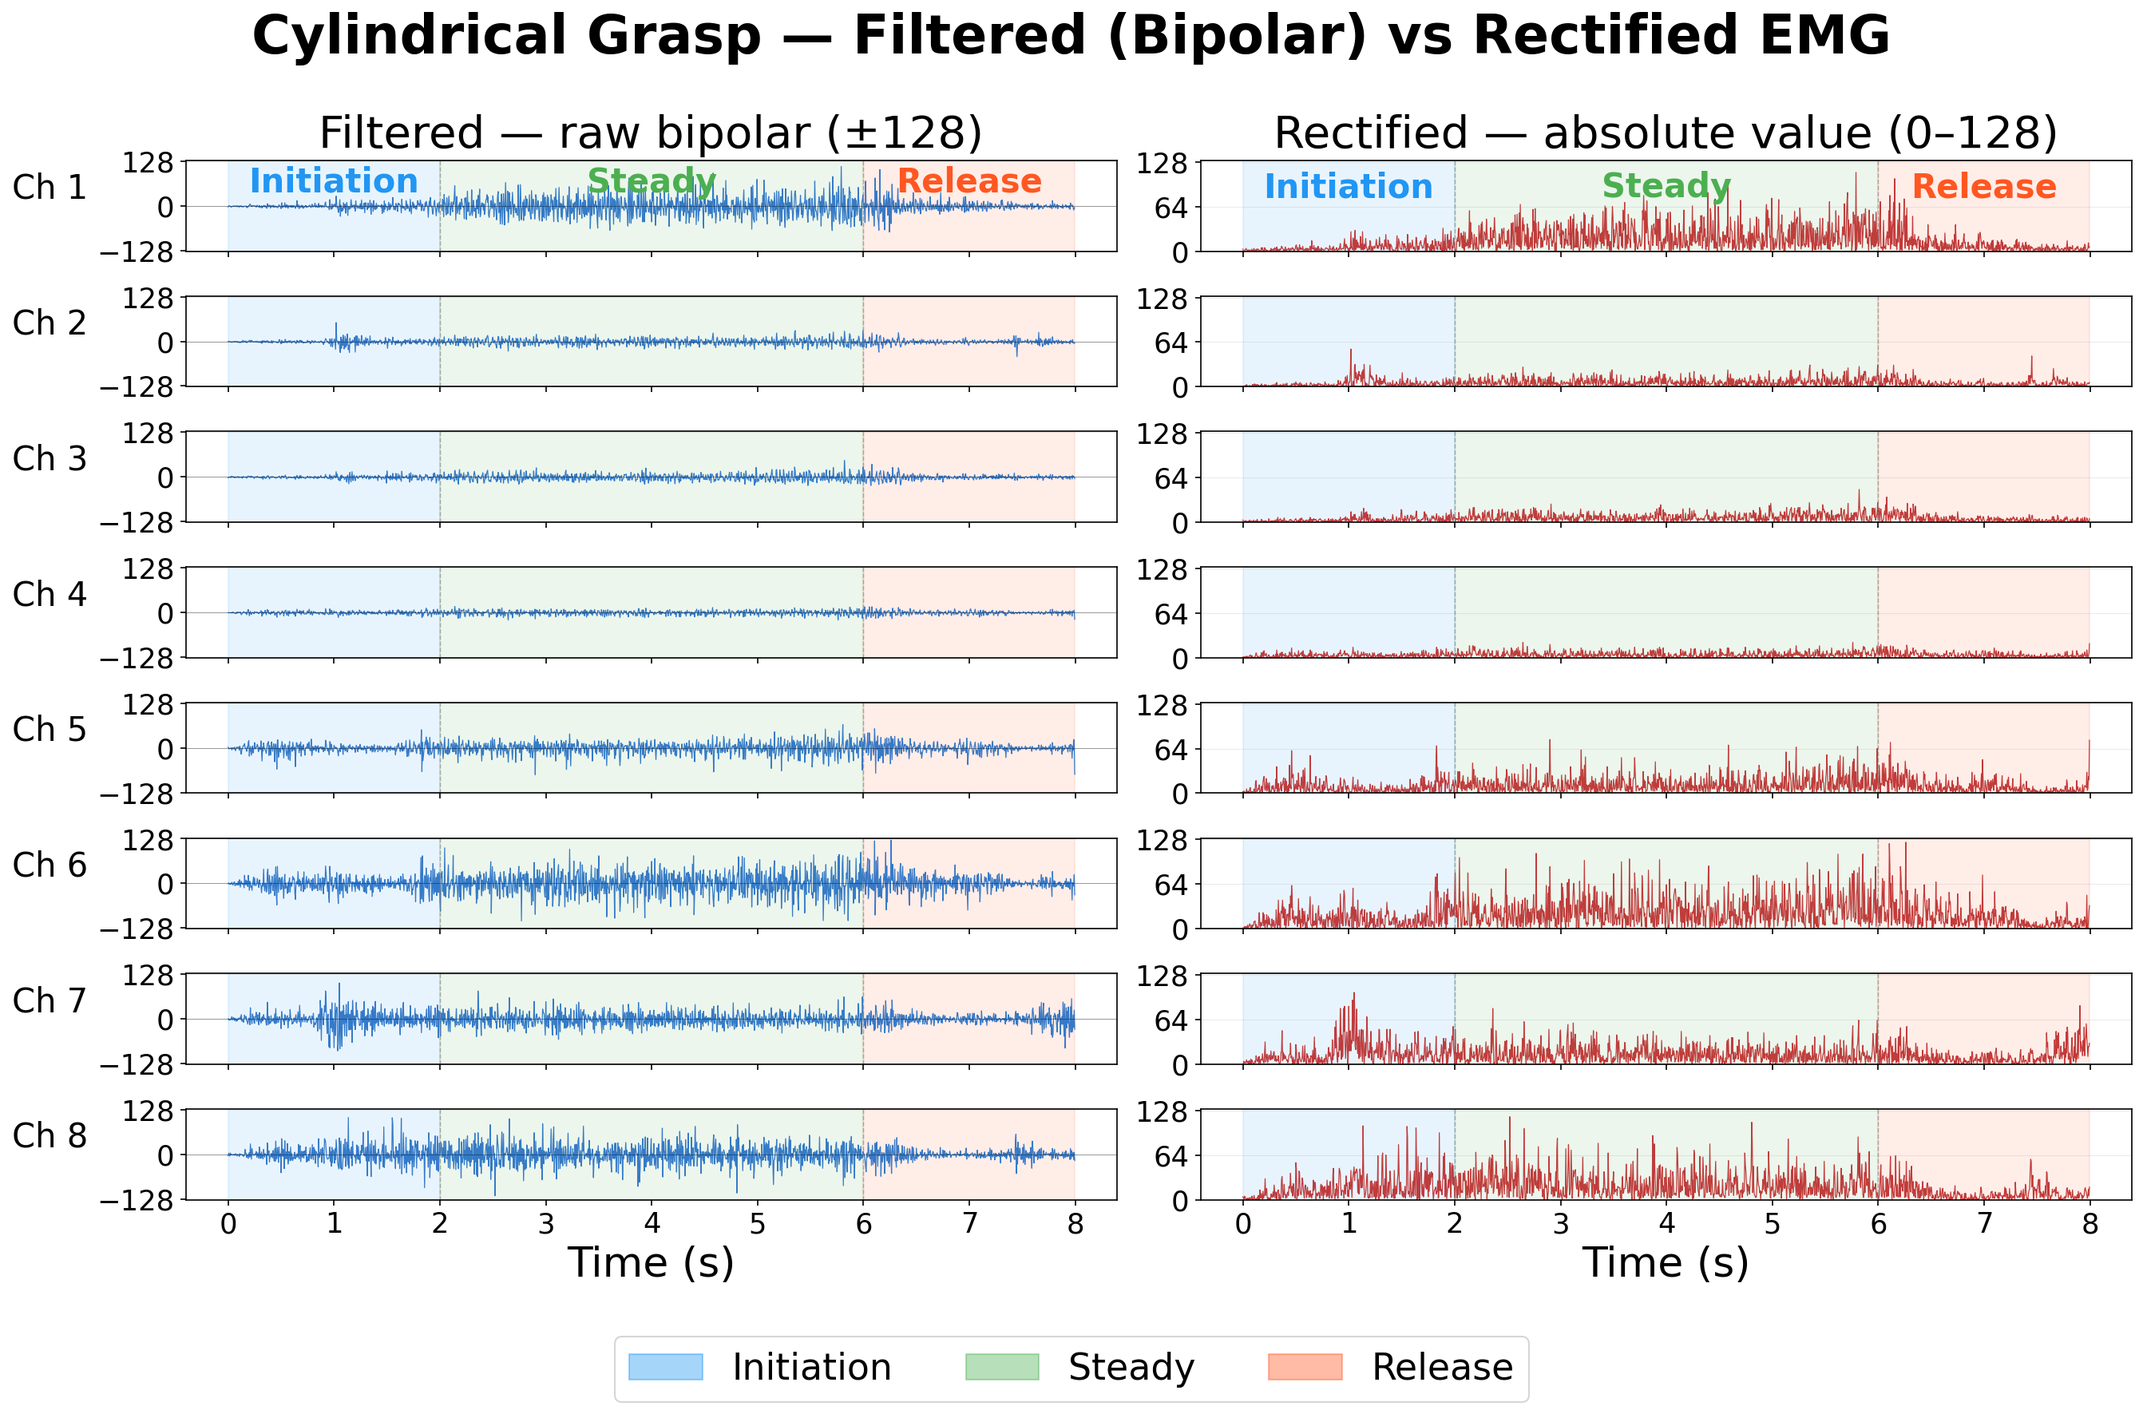
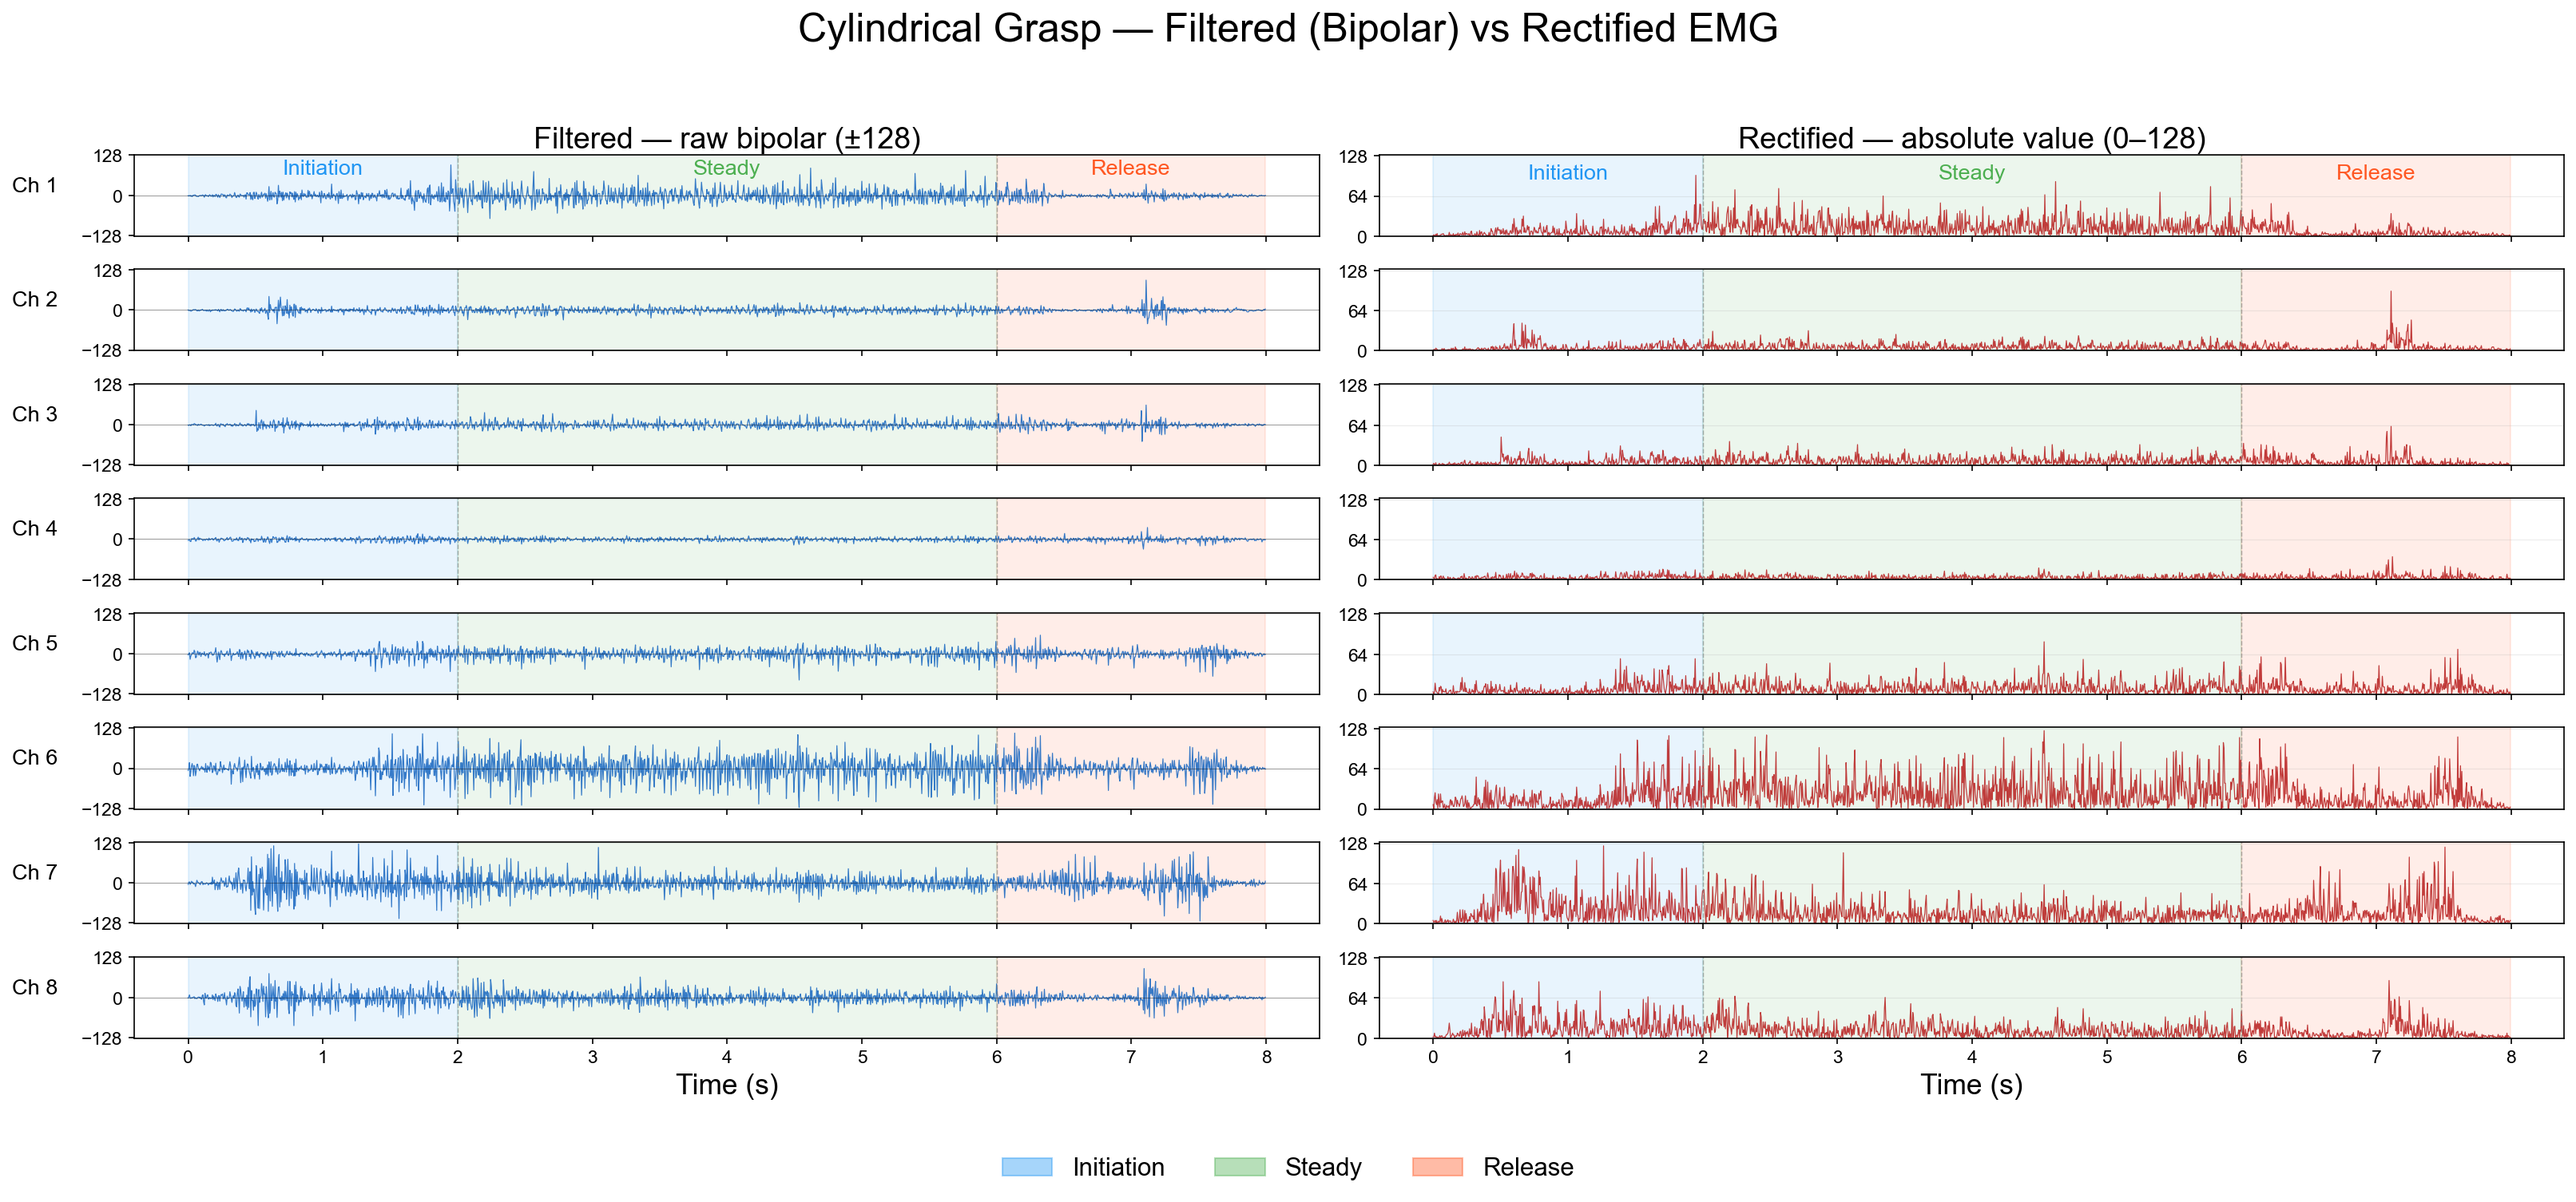
Modify formatting in EMG signal plots

Changed region(s): [[0.0, 0.0, 1.0, 0.905], [0.2783, 0.9363, 0.7113, 0.9987]]

diff --git a/graphs/plot_cylinder_filtered_vs_rectified.py b/graphs/plot_cylinder_filtered_vs_rectified.py
@@ -1,8 +1,6 @@
 '''
-Comparison plot: Filtered (bipolar) vs Rectified EMG
-Since all stored data is already rectified (np.abs applied during collection),
-the bipolar signal is simulated by multiplying the rectified envelope by a
-carrier wave that mimics the frequency content of real filtered EMG (~20-200Hz).
+Rectified EMG plot for cylindrical forward grasp trial.
+Data is stored as rectified (np.abs applied during collection).
 '''
 
 import numpy as np
@@ -13,9 +11,9 @@ from pathlib import Path
 DATA_DIR = Path(__file__).parent.parent / "server" / "data_collection"
 OUT_DIR  = Path(__file__).parent
 
-SAMPLE_RATE    = 200
-INIT_SAMPLES   = 400
-STEADY_SAMPLES = 800
+SAMPLE_RATE     = 200
+INIT_SAMPLES    = 400
+STEADY_SAMPLES  = 800
 RELEASE_SAMPLES = 400
 TRIAL_IDX = 0
 
@@ -24,6 +22,12 @@ STAGE_COLORS = {
     "Steady":     "#4CAF50",
     "Release":    "#FF5722",
 }
+
+plt.rcParams.update({
+    'font.family':     'sans-serif',
+    'font.sans-serif': ['Roboto', 'Arial', 'Helvetica', 'DejaVu Sans'],
+    'font.weight':     'normal',
+})
 
 # Load first trial
 init    = np.load(DATA_DIR / "cylindrical_forward_init.npy")
@@ -37,83 +41,50 @@ trial_release = release[TRIAL_IDX*RELEASE_SAMPLES : (TRIAL_IDX+1)*RELEASE_SAMPLE
 rectified = np.vstack([trial_init, trial_steady, trial_release])  # (1600, 8)
 t = np.arange(len(rectified)) / SAMPLE_RATE
 
-# Simulate bipolar filtered signal: multiply envelope by carrier
-# EMG motor unit firing frequency ~80Hz, modulated by a mix of frequencies
-rng = np.random.default_rng(42)
-carrier_freqs = [40, 80, 120, 160]  # Hz — representative EMG spectral content
-carrier = np.zeros(len(t))
-for f in carrier_freqs:
-    phase = rng.uniform(0, 2*np.pi)
-    carrier += np.sin(2 * np.pi * f * t + phase)
-carrier /= np.abs(carrier).max()  # normalise to ±1
-
-bipolar = rectified * carrier[:, None]  # apply per-sample carrier to all channels
-
-# Stage boundaries
 t_init_end   = INIT_SAMPLES / SAMPLE_RATE
 t_steady_end = (INIT_SAMPLES + STEADY_SAMPLES) / SAMPLE_RATE
 
-def shade_stages(axes):
-    for ax in axes:
-        ax.axvspan(0,           t_init_end,   alpha=0.10, color=STAGE_COLORS["Initiation"])
-        ax.axvspan(t_init_end,  t_steady_end, alpha=0.10, color=STAGE_COLORS["Steady"])
-        ax.axvspan(t_steady_end, t[-1],       alpha=0.10, color=STAGE_COLORS["Release"])
-        ax.axvline(t_init_end,   color='gray', linestyle='--', linewidth=0.7, alpha=0.6)
-        ax.axvline(t_steady_end, color='gray', linestyle='--', linewidth=0.7, alpha=0.6)
-
-# ---------- Plot ----------
-fig, axes = plt.subplots(8, 2, figsize=(18, 12), sharex=True)
-fig.suptitle("Cylindrical Forward Grasp — Filtered vs Rectified EMG (Trial 1)",
-             fontsize=13, fontweight='bold')
-
-axes[0, 0].set_title("Filtered (bipolar, simulated)", fontsize=11, pad=8)
-axes[0, 1].set_title("Rectified (absolute value, stored)", fontsize=11, pad=8)
+fig, axes = plt.subplots(8, 1, figsize=(12, 10), sharex=True)
+fig.subplots_adjust(hspace=0.08)
+fig.suptitle("Cylindrical Forward Grasp — Rectified EMG (Trial 1)",
+             fontsize=24, fontweight='normal', y=0.995)
 
 for ch in range(8):
-    # Bipolar (filtered)
-    ax_f = axes[ch, 0]
-    ax_f.plot(t, bipolar[:, ch], color='#1565C0', linewidth=0.6, alpha=0.85)
-    ax_f.set_ylim(-130, 130)
-    ax_f.set_yticks([-128, 0, 128])
-    ax_f.axhline(0, color='black', linewidth=0.4, alpha=0.4)
-    ax_f.set_ylabel(f"Ch {ch+1}", fontsize=8, rotation=0, labelpad=28)
+    ax = axes[ch]
+    ax.plot(t, rectified[:, ch], color='#B71C1C', linewidth=0.6, alpha=0.85)
+    ax.set_ylim(0, 130)
+    ax.set_yticks([0, 64, 128])
+    ax.axvspan(0,            t_init_end,   alpha=0.10, color=STAGE_COLORS["Initiation"])
+    ax.axvspan(t_init_end,   t_steady_end, alpha=0.10, color=STAGE_COLORS["Steady"])
+    ax.axvspan(t_steady_end, t[-1],        alpha=0.10, color=STAGE_COLORS["Release"])
+    ax.axvline(t_init_end,   color='gray', linestyle='--', linewidth=0.7, alpha=0.6)
+    ax.axvline(t_steady_end, color='gray', linestyle='--', linewidth=0.7, alpha=0.6)
+    ax.tick_params(labelsize=11)
+    ax.grid(True, axis='y', alpha=0.25, linewidth=0.5)
+    ax.set_ylabel(f"Ch {ch+1}", fontsize=13, rotation=0, labelpad=28)
 
-    # Rectified
-    ax_r = axes[ch, 1]
-    ax_r.plot(t, rectified[:, ch], color='#B71C1C', linewidth=0.6, alpha=0.85)
-    ax_r.set_ylim(0, 130)
-    ax_r.set_yticks([0, 64, 128])
+# Stage labels on top row
+for label, x0, x1 in [
+    ("Initiation", 0,            t_init_end),
+    ("Steady",     t_init_end,   t_steady_end),
+    ("Release",    t_steady_end, t[-1]),
+]:
+    axes[0].text(
+        (x0 + x1) / 2, 115, label,
+        ha='center', va='top', fontsize=13, fontweight='normal',
+        color=STAGE_COLORS[label]
+    )
 
-    for ax in [ax_f, ax_r]:
-        shade_stages([ax])
-        ax.tick_params(labelsize=7)
-        ax.grid(True, axis='y', alpha=0.25, linewidth=0.5)
+axes[-1].set_xlabel("Time (s)", fontsize=17)
 
-# Stage labels on row 0
-for col, label_y, ylim in [(0, 110, 130), (1, 110, 130)]:
-    for label, x0, x1 in [
-        ("Initiation", 0, t_init_end),
-        ("Steady",     t_init_end, t_steady_end),
-        ("Release",    t_steady_end, t[-1]),
-    ]:
-        axes[0, col].text(
-            (x0 + x1) / 2, label_y, label,
-            ha='center', va='top', fontsize=8, fontweight='bold',
-            color=STAGE_COLORS[label]
-        )
-
-for col in range(2):
-    axes[-1, col].set_xlabel("Time (s)", fontsize=10)
-
-# Legend
 patches = [mpatches.Patch(color=c, alpha=0.4, label=l)
            for l, c in STAGE_COLORS.items()]
-fig.legend(handles=patches, loc='lower center', ncol=3, fontsize=9,
-           bbox_to_anchor=(0.5, 0.01))
+fig.legend(handles=patches, loc='lower center', ncol=3, fontsize=15,
+           bbox_to_anchor=(0.5, 0.0), frameon=False)
 
-plt.tight_layout(rect=[0, 0.04, 1, 0.97])
+plt.tight_layout(rect=[0, 0.05, 1, 0.96])
 
-out_path = OUT_DIR / "cylindrical_forward_filtered_vs_rectified.png"
+out_path = OUT_DIR / "cylindrical_forward_rectified.png"
 plt.savefig(out_path, dpi=150, bbox_inches='tight')
 print(f"Saved to {out_path}")
 plt.show()

diff --git a/graphs/collect_and_plot_cylinder.py b/graphs/collect_and_plot_cylinder.py
@@ -105,16 +105,25 @@ def _countdown(seconds):
 # ── Plotting ──────────────────────────────────────────────────────────────────
 
 def _plot(raw, rect):
+    plt.rcParams.update({
+        'font.family':     'sans-serif',
+        'font.sans-serif': ['Roboto', 'Arial', 'Helvetica', 'DejaVu Sans'],
+        'font.weight':     'normal',
+    })
+
     t_init_end   = INIT_SAMPLES    / SAMPLE_RATE
     t_steady_end = (INIT_SAMPLES + STEADY_SAMPLES) / SAMPLE_RATE
     t = np.arange(len(raw)) / SAMPLE_RATE
 
-    fig, axes = plt.subplots(8, 2, figsize=(18, 12), sharex=True)
-    fig.suptitle("Cylindrical Grasp — Filtered (Bipolar) vs Rectified EMG",
-                 fontsize=32, fontweight='bold')
+    fig, axes = plt.subplots(8, 2, figsize=(21.6, 10), sharex=True,
+                             constrained_layout=False)
+    fig.subplots_adjust(hspace=0.08)
 
-    axes[0, 0].set_title("Filtered — raw bipolar (±128)", fontsize=27, pad=8)
-    axes[0, 1].set_title("Rectified — absolute value (0–128)", fontsize=27, pad=8)
+    fig.suptitle("Cylindrical Grasp — Filtered (Bipolar) vs Rectified EMG",
+                 fontsize=24, fontweight='normal', y=0.995)
+
+    axes[0, 0].set_title("Filtered — raw bipolar (±128)",      fontsize=18, pad=4)
+    axes[0, 1].set_title("Rectified — absolute value (0–128)", fontsize=18, pad=4)
 
     for ch in range(8):
         ax_f = axes[ch, 0]
@@ -131,39 +140,40 @@ def _plot(raw, rect):
         ax_r.set_yticks([0, 64, 128])
 
         for ax in [ax_f, ax_r]:
-            ax.axvspan(0,           t_init_end,   alpha=0.10, color=STAGE_COLORS["Initiation"])
-            ax.axvspan(t_init_end,  t_steady_end, alpha=0.10, color=STAGE_COLORS["Steady"])
-            ax.axvspan(t_steady_end, t[-1],       alpha=0.10, color=STAGE_COLORS["Release"])
+            ax.axvspan(0,            t_init_end,   alpha=0.10, color=STAGE_COLORS["Initiation"])
+            ax.axvspan(t_init_end,   t_steady_end, alpha=0.10, color=STAGE_COLORS["Steady"])
+            ax.axvspan(t_steady_end, t[-1],        alpha=0.10, color=STAGE_COLORS["Release"])
             ax.axvline(t_init_end,   color='gray', linestyle='--', linewidth=0.7, alpha=0.6)
             ax.axvline(t_steady_end, color='gray', linestyle='--', linewidth=0.7, alpha=0.6)
-            ax.tick_params(labelsize=17)
+            ax.tick_params(labelsize=11)
             ax.grid(True, axis='y', alpha=0.25, linewidth=0.5)
 
-        axes[ch, 0].set_ylabel(f"Ch {ch+1}", fontsize=20, rotation=0, labelpad=28)
+        axes[ch, 0].set_ylabel(f"Ch {ch+1}", fontsize=13, rotation=0, labelpad=28)
 
-    # Stage labels on top row
+    # Stage labels on top row — placed via axes transform so they sit just
+    # inside the top edge without overlapping column titles
     for col in range(2):
         for label, x0, x1 in [
-            ("Initiation", 0,           t_init_end),
-            ("Steady",     t_init_end,  t_steady_end),
+            ("Initiation", 0,            t_init_end),
+            ("Steady",     t_init_end,   t_steady_end),
             ("Release",    t_steady_end, t[-1]),
         ]:
             axes[0, col].text(
                 (x0 + x1) / 2, 115,
                 label, ha='center', va='top',
-                fontsize=20, fontweight='bold',
-                color=STAGE_COLORS[label]
+                fontsize=13, fontweight='normal',
+                color=STAGE_COLORS[label],
             )
 
     for col in range(2):
-        axes[-1, col].set_xlabel("Time (s)", fontsize=25)
+        axes[-1, col].set_xlabel("Time (s)", fontsize=17)
 
     patches = [mpatches.Patch(color=c, alpha=0.4, label=l)
                for l, c in STAGE_COLORS.items()]
-    fig.legend(handles=patches, loc='lower center', ncol=3, fontsize=22,
-               bbox_to_anchor=(0.5, 0.0))
+    fig.legend(handles=patches, loc='lower center', ncol=3, fontsize=15,
+               bbox_to_anchor=(0.5, 0.0), frameon=False)
 
-    plt.tight_layout(rect=[0, 0.08, 1, 0.97])
+    plt.tight_layout(rect=[0, 0.07, 1, 0.96])
 
     out_path = os.path.join(OUT_DIR, "cylindrical_live_filtered_vs_rectified.png")
     plt.savefig(out_path, dpi=150, bbox_inches='tight')
